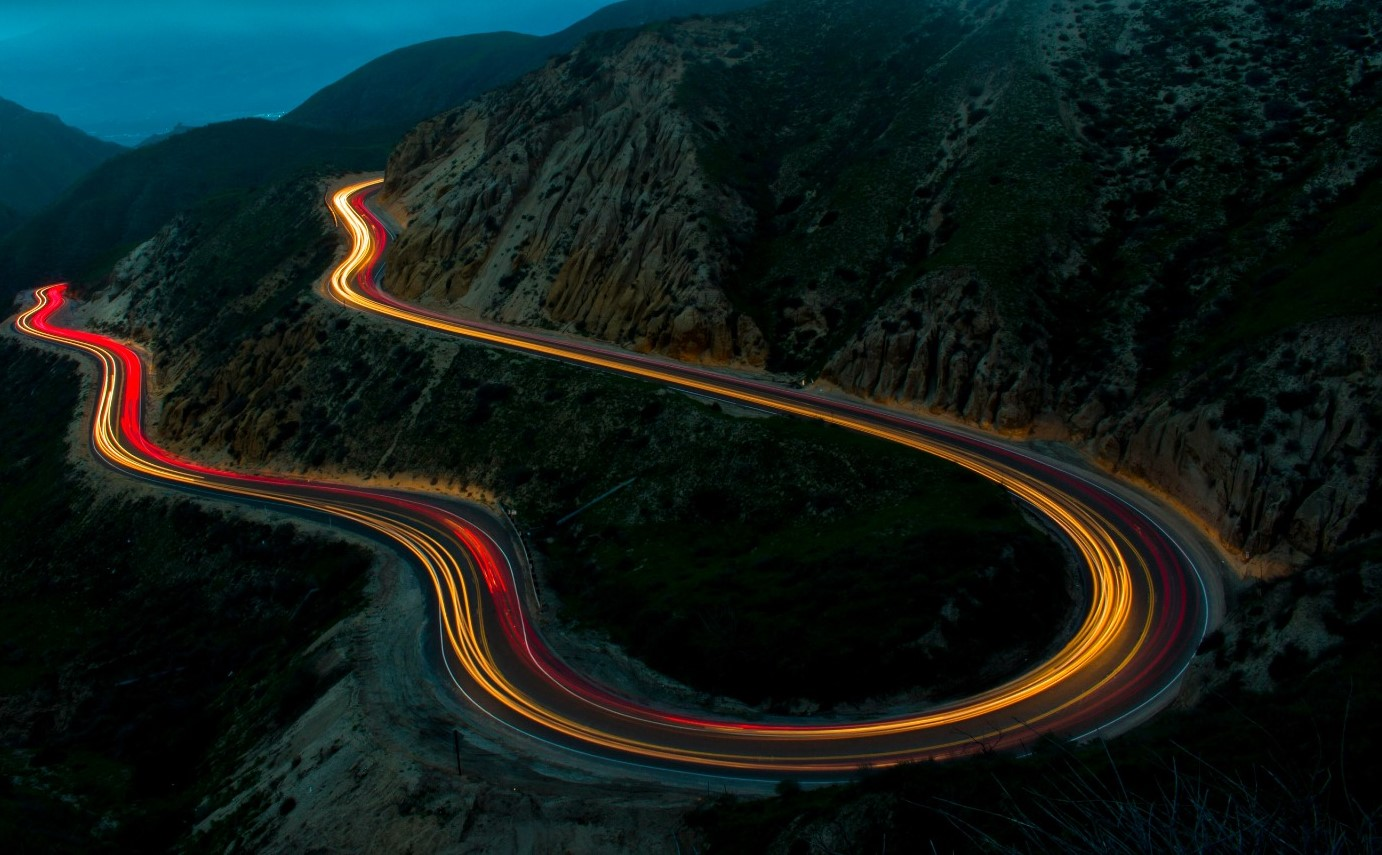
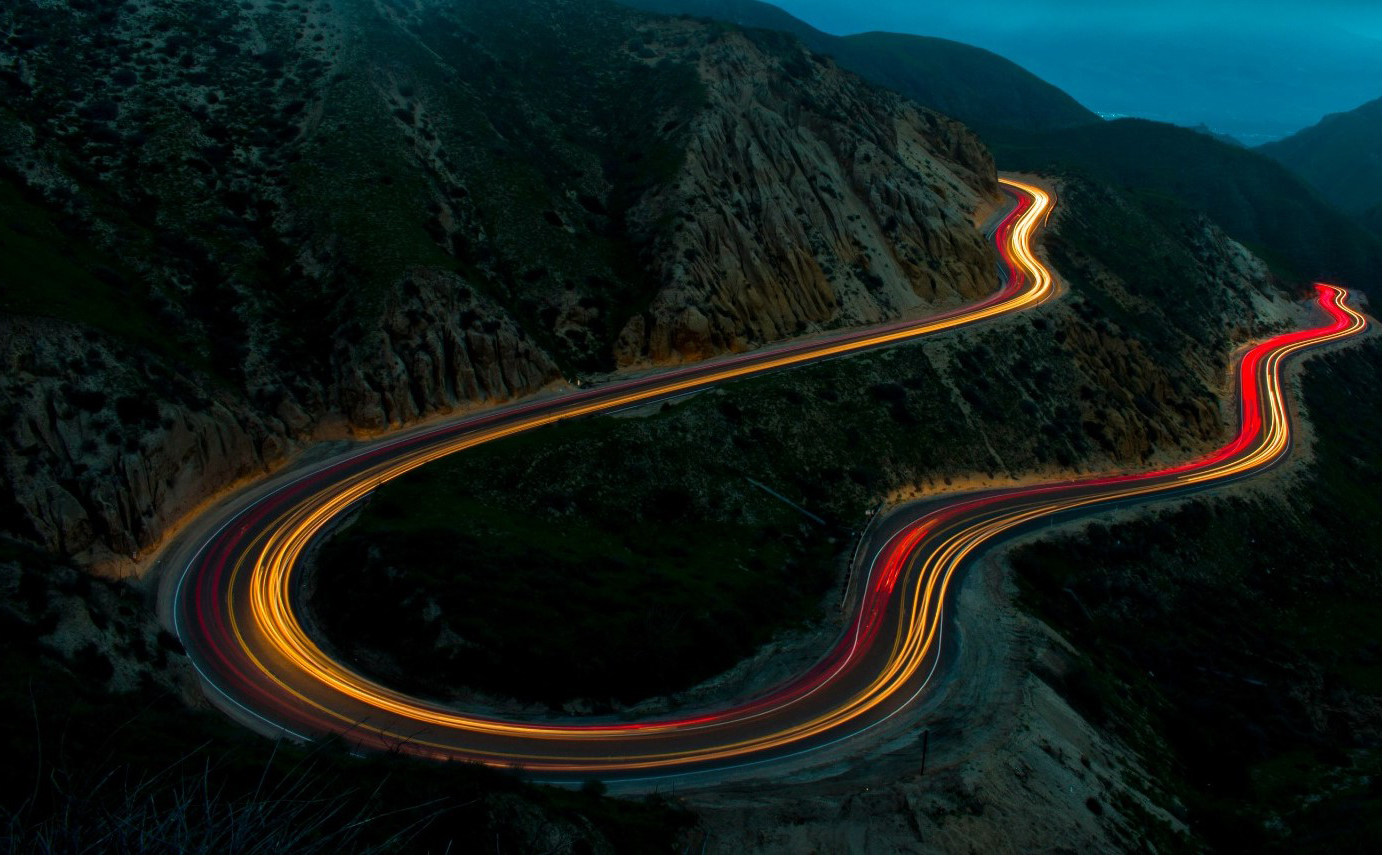
alpha improvements - add hero background image

diff --git a/src/components/hero/style.css b/src/components/hero/style.css
@@ -146,7 +146,7 @@
 --------------------------------------------------------------*/
 .hero-static-image,.hero-static-image-2,.hero-static-image-3 {
   background: #fff;
-  height: 900px;
+  height: 800px;
   position: relative;
 }
 .hero-static-image:before,.hero-static-image-2:before{
@@ -378,8 +378,18 @@ hero-style-2
 /*.call-now-button {*/
 /*    float: right;*/
 /*}*/
-.hashtag-alpha-auto {
-    color: red;
+.hashtag-alpha-auto-desktop {
+    background: -webkit-linear-gradient(left, yellow, orangered);
+    background: -o-linear-gradient(right, yellow, orangered);
+    background: -moz-linear-gradient(right, yellow, orangered);
+    background: linear-gradient(to right, yellow, orangered);
+    -webkit-background-clip: text;
+    -webkit-text-fill-color: transparent;
+}
+
+.hashtag-alpha-auto-mobile {
+    background: none;
+    color: orange;
 }
 
 .slide-title {
@@ -440,4 +450,21 @@ hero-style-2
     .call-now-button {
         padding-left: 0!important;
     }
+}
+
+.background-image {
+    background: url('../../images/background.jpg') no-repeat;
+    background-size: cover;
+    height: 660px;
+}
+
+@media (max-width:991px){
+    .background-image {
+        background: white;
+        height: auto;
+    }
+}
+
+.slide-title.large-screen-only h1, .slide-title.large-screen-only h3 {
+    color: white;
 }

diff --git a/src/components/Contactpage/index.js b/src/components/Contactpage/index.js
@@ -31,17 +31,19 @@ const Contactpage = () => {
           <div className="row">
             <div className="col-lg-3 col-md-6 col-sm-12 col-12">
               <div className="hx-contact-gd-wrap phone-tile">
-                <div className="hx-contact-gd-icon">
-                  <PhoneIcon style={{ color: 'white', fontSize: 40 }} />
-                </div>
+                <a href="tel:+40722 968 318">
+                  <div className="hx-contact-gd-icon">
+                    <PhoneIcon style={{ color: 'white', fontSize: 40 }} />
+                  </div>
+                </a>
                 <div className="hx-contact-gd-text">
                   <h4 className="no-margin">Telefon</h4>
-                  <a href="tel:+40722 968 318">
-                    <span className="phone-number">0722 968 318</span>
+                  <a className="hoverable-link phone-number" href="tel:+40722 968 318">
+                    0722 968 318
                   </a>
                   <br />
-                  <a href="tel:+40746 132 939">
-                    <span className="phone-number">0746 132 939</span>
+                  <a className="hoverable-link phone-number" href="tel:+40746 132 939">
+                    0746 132 939
                   </a>
                 </div>
               </div>

diff --git a/src/components/hero/index.js b/src/components/hero/index.js
@@ -8,6 +8,7 @@ class SimpleSlider extends Component {
   render() {
     return (
       <section id="hero" className="hero hero-static-image">
+        <div className="background-image">
           <div className="container">
             <div className="row hero-container large-screen-only">
                 <div className="col col-lg-9 col-md-7 slide-caption large-screen-only">
@@ -26,7 +27,7 @@ class SimpleSlider extends Component {
                     </div>
                     <div className="large-screen-only desktop-button btns">
                       <AnchorLink offset='27' href='#appointment'>
-                        <button type="button" className="btn btn-outline-primary btn-lg programari-btn">Programări</button>
+                        <button type="button" className="btn btn-light btn-lg programari-btn">Programări</button>
                       </AnchorLink>
                     </div>
                   </div>
@@ -54,6 +55,7 @@ class SimpleSlider extends Component {
               </div>
             </div>
           </div>
+        </div>
       </section>
     );
   }

diff --git a/src/components/Contactpage/style.css b/src/components/Contactpage/style.css
@@ -175,3 +175,11 @@
 .section-padding {
   padding-bottom: 0!important;
 }
+
+.hoverable-link {
+    color: #666;
+}
+
+.hoverable-link:hover {
+    color: #ed5217;
+}
